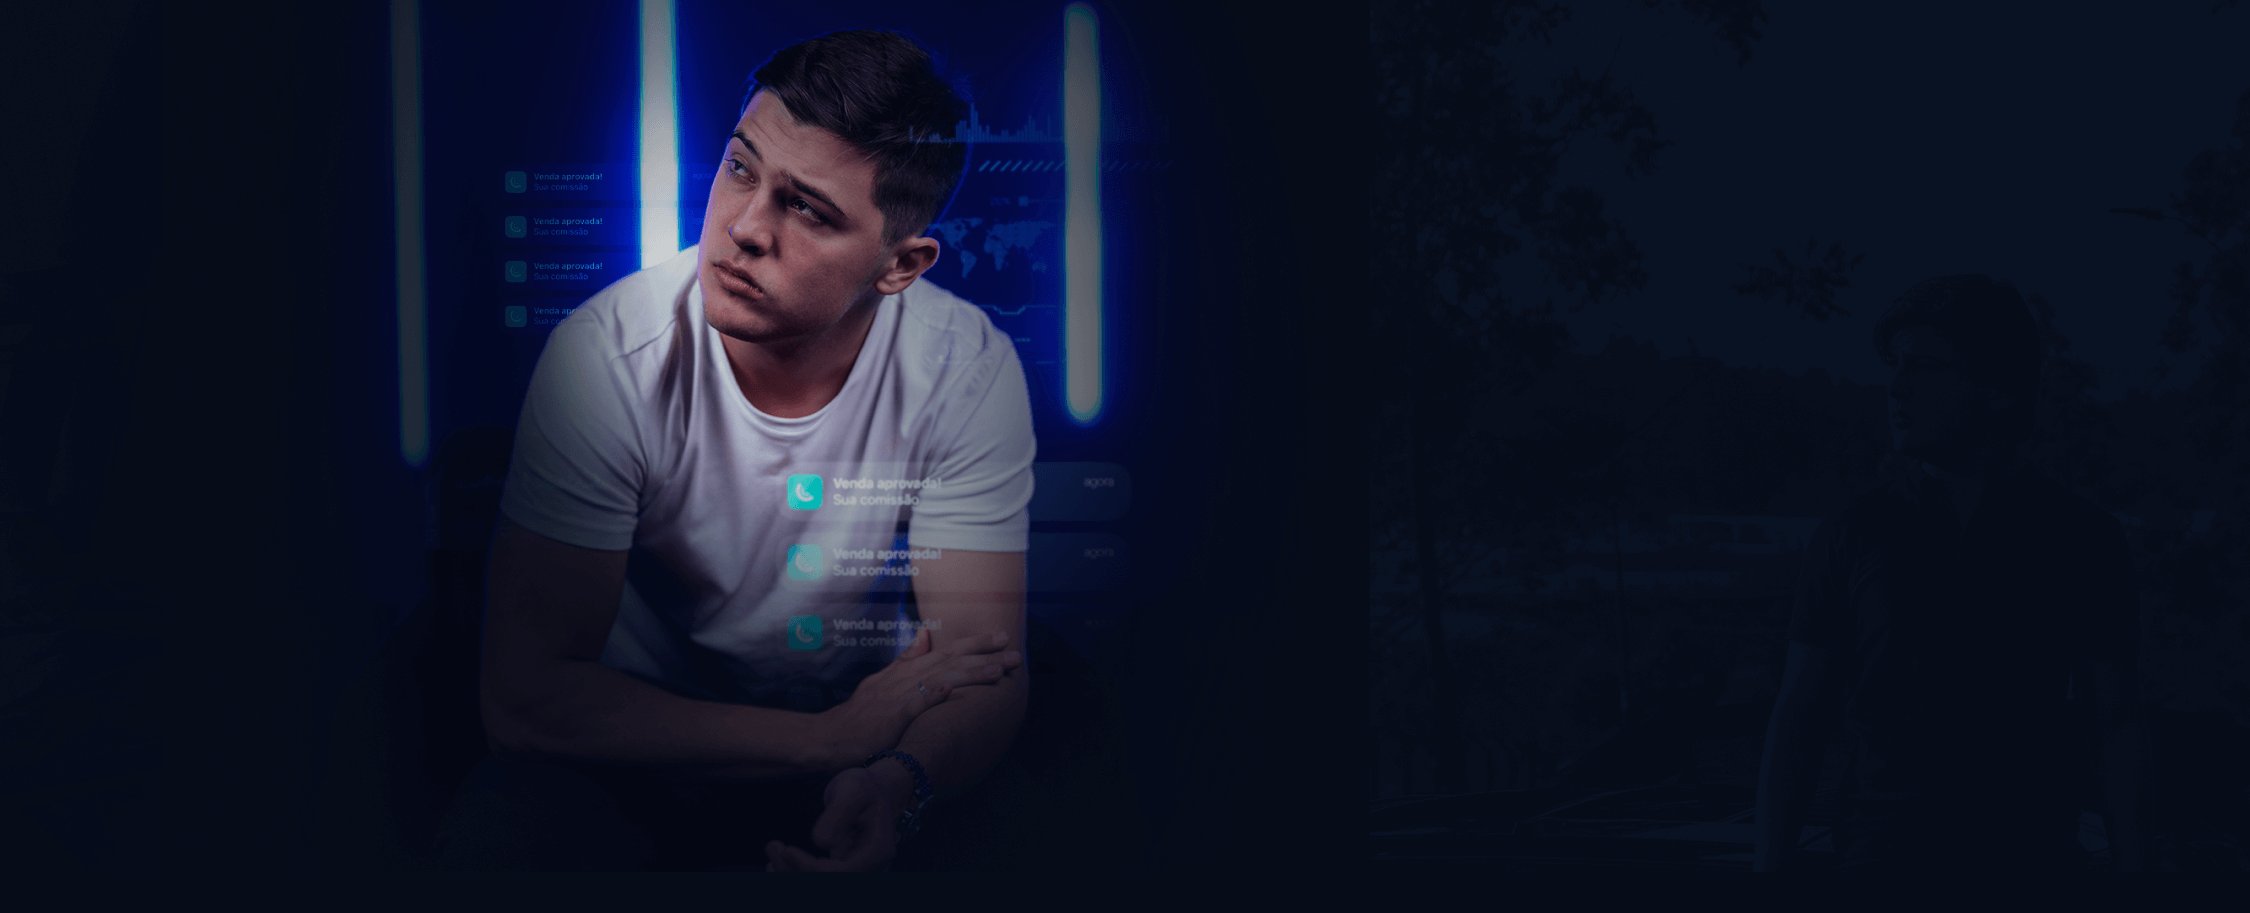
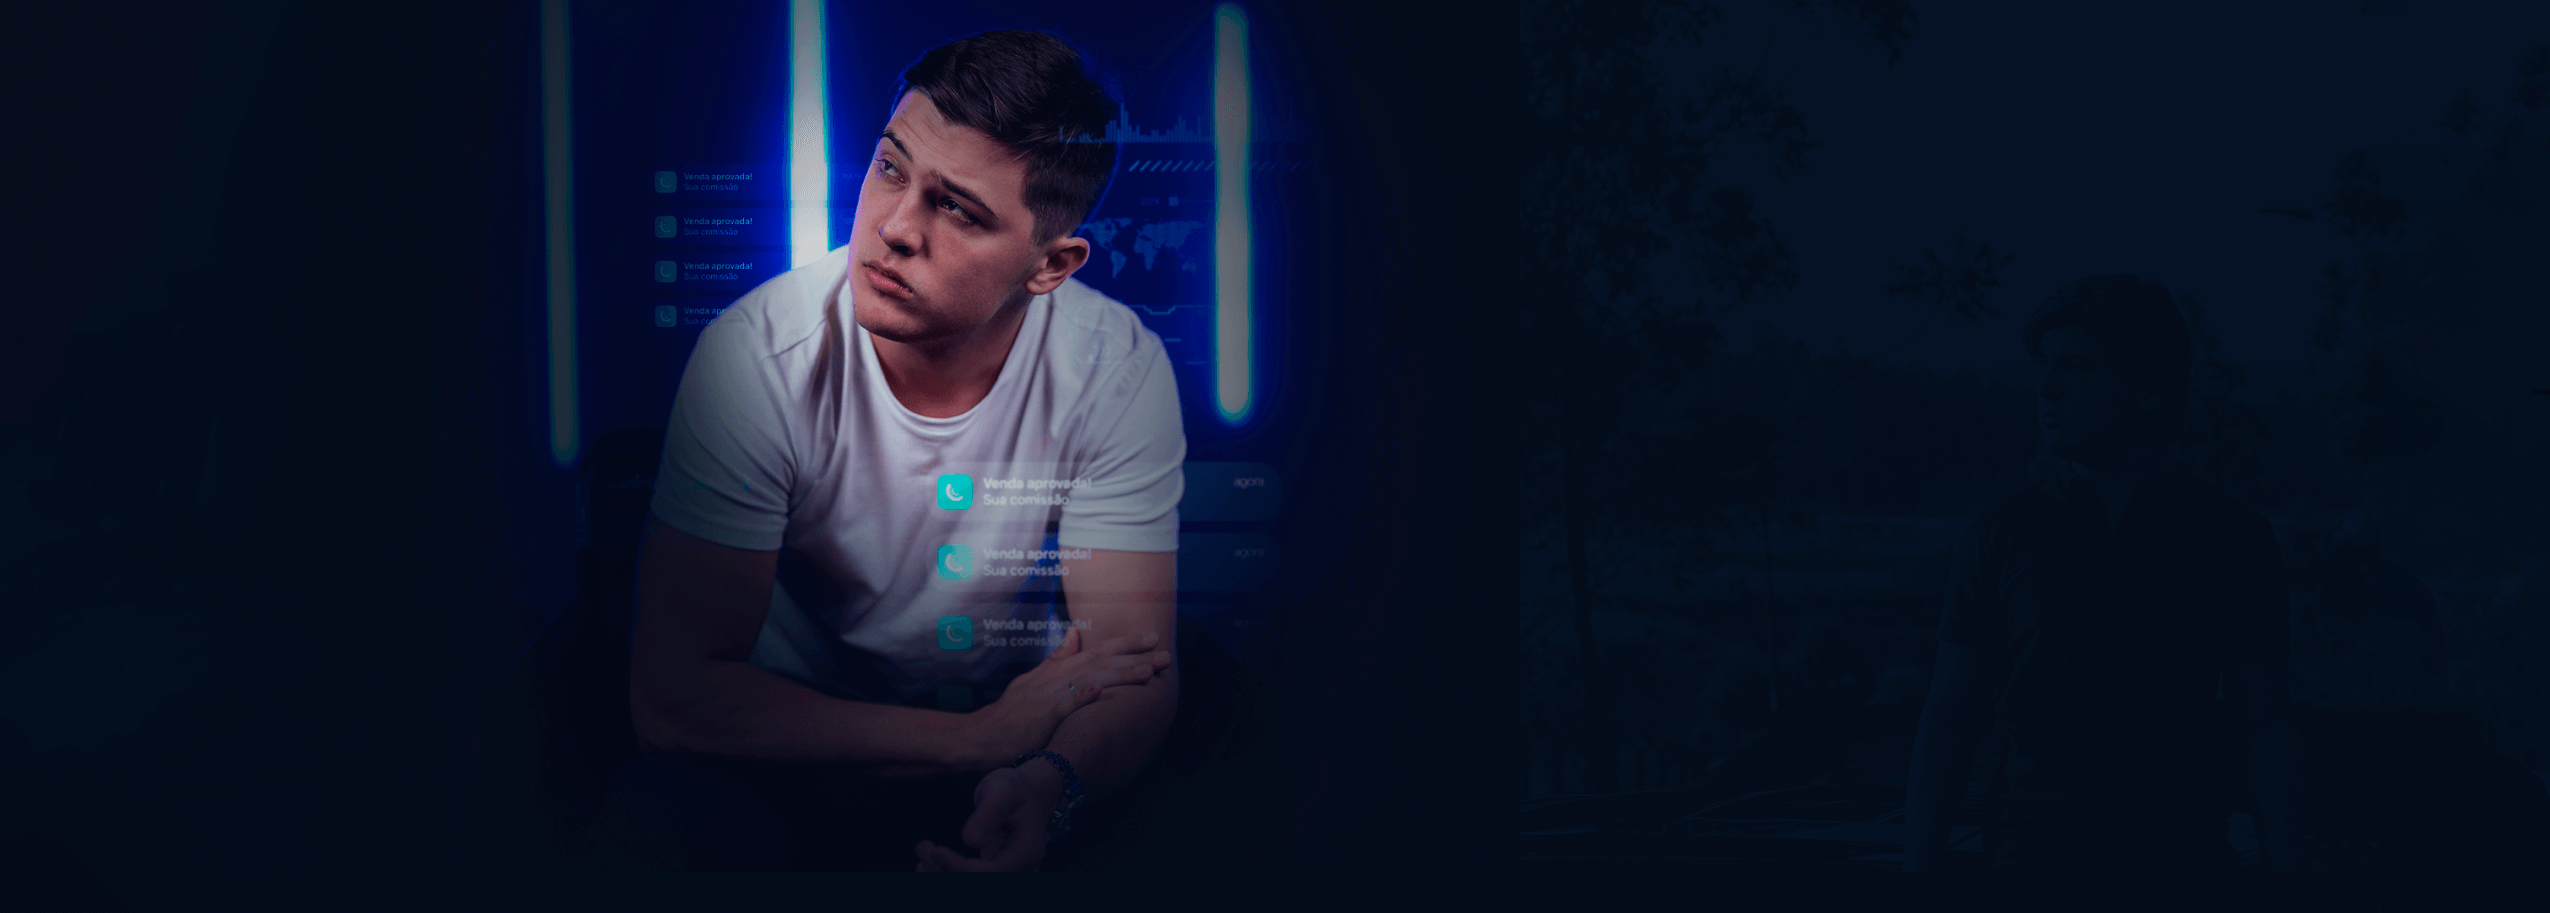
v 1.04

Changed region(s): [[0.1556, 0.0, 0.4978, 0.7974], [0.3733, 0.828, 0.4044, 0.8894]]

diff --git a/assets/css/main.css b/assets/css/main.css
@@ -210,7 +210,7 @@ button:hover {
   right: 0;
   background-repeat: no-repeat;
   background-position: top;
-  background-size: contain;
+  background-size: cover;
   opacity: 1;
   z-index: 0;
 }
@@ -231,7 +231,7 @@ button:hover {
   right: 0;
   background-repeat: no-repeat;
   background-position: top;
-  background-size: contain;
+  background-size: cover;
   opacity: 1;
   z-index: 0;
 }
